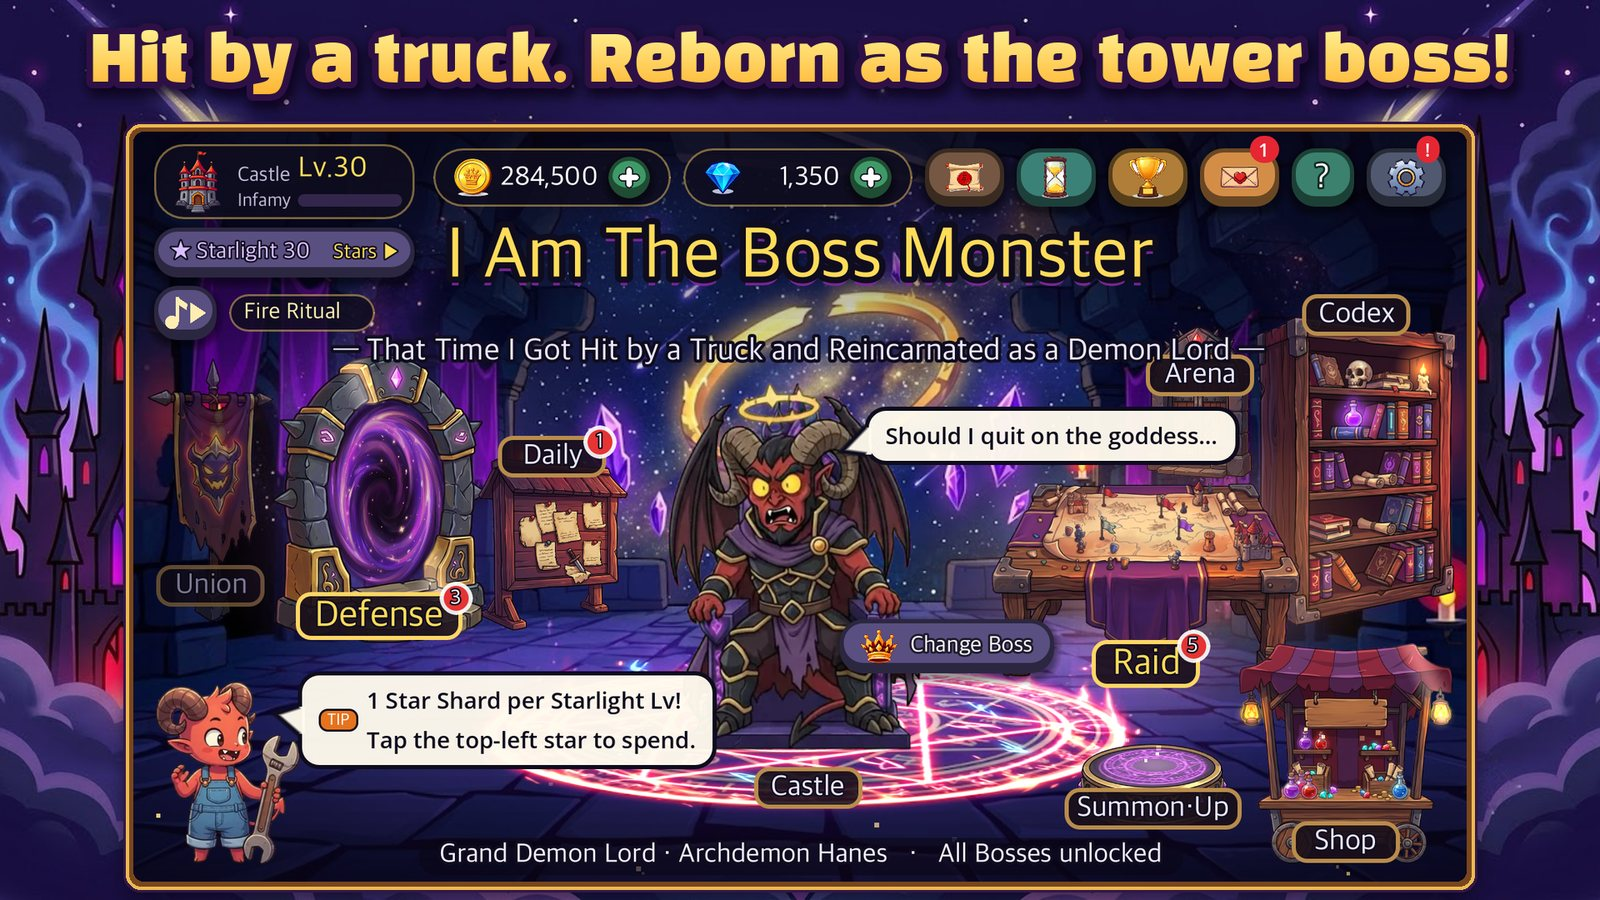
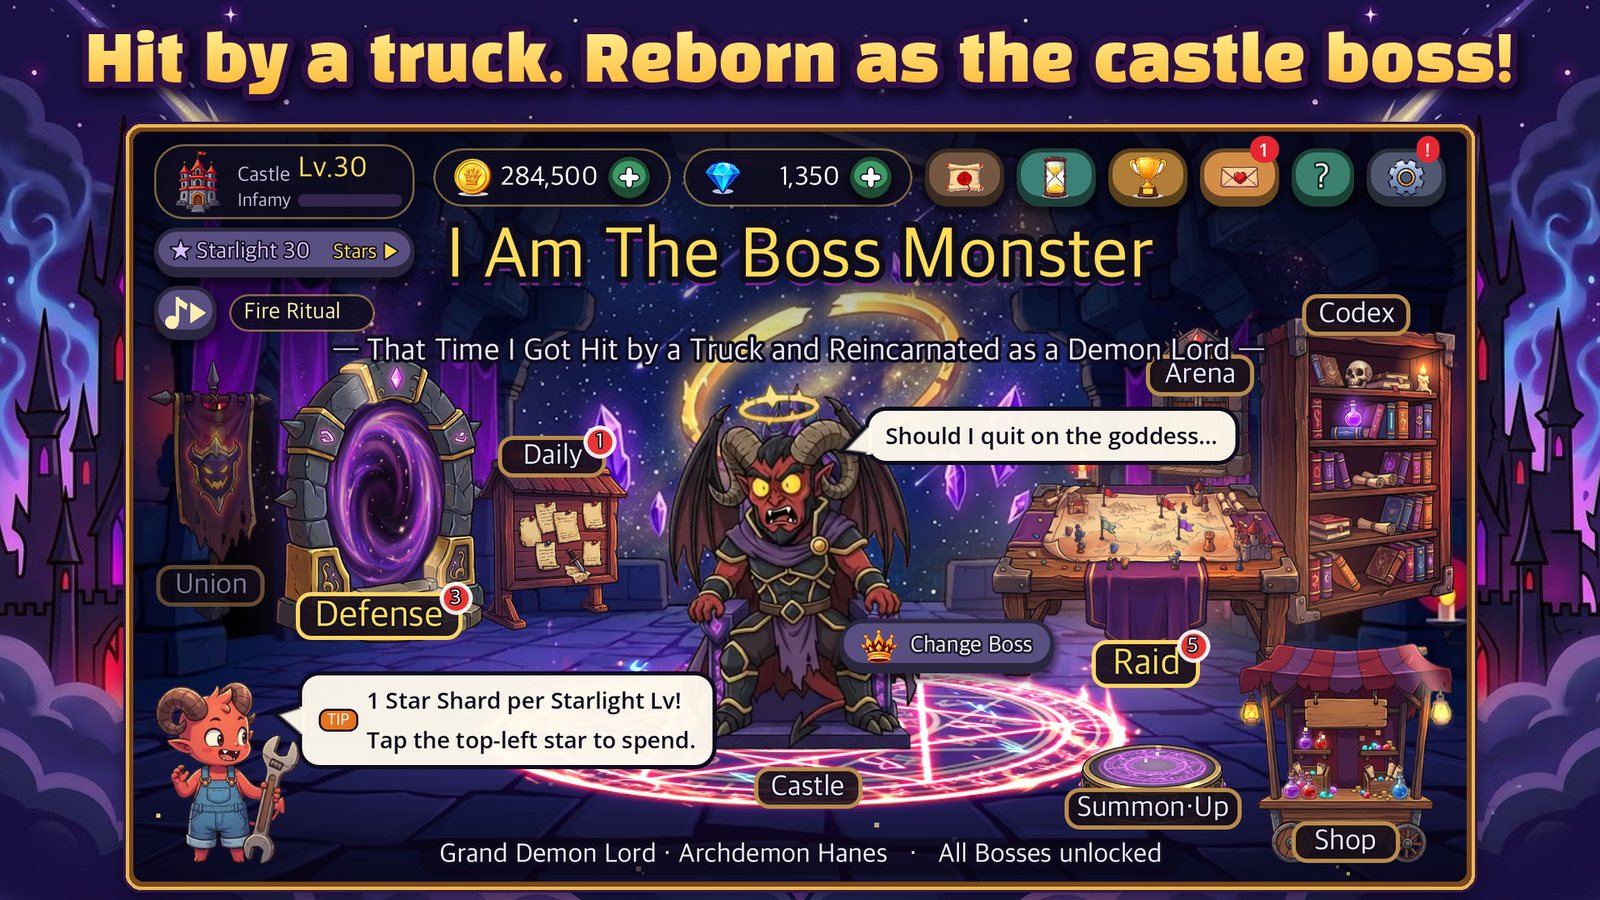
내가 보스 몬스터다: 구조물 이름을 게임과 같은 '마왕성(Demon Castle)'으로 맞춘다
게임 안 글은 '마왕성'(140곳)과 'castle'을 쓰는데 소개 페이지만 '마왕탑'·'Demon Tower'라 어긋났다.
소개글·주요 기능·첫 화면 카드·태그와 로비 스크린샷 띠 문구를 바꿨다. 방어탑(함정 옆 탑)은 그대로.

Changed region(s): [[0.0312, 0.0311, 0.9688, 0.1244]]

diff --git a/boss-monster/index.html b/boss-monster/index.html
@@ -4,7 +4,7 @@
   <meta charset="UTF-8">
   <meta name="viewport" content="width=device-width, initial-scale=1.0">
   <title>내가 보스 몬스터다 - 게임 소개 | PinkMandarin</title>
-  <meta name="description" content="내가 보스 몬스터다 — 부하와 함정을 배치하고 보스를 직접 조작해 쳐들어오는 용사를 막는 마왕탑 방어전">
+  <meta name="description" content="내가 보스 몬스터다 — 부하와 함정을 배치하고 보스를 직접 조작해 쳐들어오는 용사를 막는 마왕성 방어전">
   <link rel="icon" type="image/png" href="../assets/favicon.png">
   <link rel="stylesheet" href="../css/style.css">
 </head>
@@ -48,7 +48,7 @@
         <div class="app-detail-info">
           <h1 data-ko="내가 보스 몬스터다" data-en="I Am The Boss Monster">내가 보스 몬스터다</h1>
           <div class="app-developer">PinkMandarin</div>
-          <p class="app-tagline" data-ko="부하와 함정을 배치하고 보스를 직접 조작해 쳐들어오는 용사를 막는 마왕탑 방어전" data-en="Place minions and traps, take control of your boss, and crush invading heroes!">부하와 함정을 배치하고 보스를 직접 조작해 쳐들어오는 용사를 막는 마왕탑 방어전</p>
+          <p class="app-tagline" data-ko="부하와 함정을 배치하고 보스를 직접 조작해 쳐들어오는 용사를 막는 마왕성 방어전" data-en="Place minions and traps, take control of your boss, and crush invading heroes!">부하와 함정을 배치하고 보스를 직접 조작해 쳐들어오는 용사를 막는 마왕성 방어전</p>
           <div class="app-detail-badges">
             <span class="app-card-badge badge-dev" data-ko="내부 테스트 중" data-en="Internal Testing">내부 테스트 중</span>
             <span class="feature-tag">Android</span>
@@ -76,7 +76,7 @@
         </div>
         <div class="screenshots-scroll" data-lang="en" style="display:none">
           <div class="screenshot-item"><img src="../assets/boss-ss-01-en.jpg" alt="Lobby" loading="lazy"></div>
-          <div class="screenshot-item"><img src="../assets/boss-ss-02-en.jpg" alt="Tower layout" loading="lazy"></div>
+          <div class="screenshot-item"><img src="../assets/boss-ss-02-en.jpg" alt="Castle layout" loading="lazy"></div>
           <div class="screenshot-item"><img src="../assets/boss-ss-03-en.jpg" alt="Defense" loading="lazy"></div>
           <div class="screenshot-item"><img src="../assets/boss-ss-04-en.jpg" alt="Boss control" loading="lazy"></div>
           <div class="screenshot-item"><img src="../assets/boss-ss-05-en.jpg" alt="Codex & summon" loading="lazy"></div>
@@ -105,26 +105,26 @@
       <section class="app-description">
         <h2 data-ko="게임 소개" data-en="About This Game">게임 소개</h2>
         <div class="app-desc-content" data-lang="ko">
-          <p>트럭에 치여 눈을 떠 보니, 나는 마왕탑의 보스 슬라임이 되어 있었다. 여신 세레나의 실수로 용사 정원을 넘겨 버린 게이머에게 남은 자리는 마신군 마왕탑의 보스뿐. 쳐들어오는 용사들을 막고, 탑을 키우고, 진화를 거듭해 마신이 되어야 원래 세계로 돌아갈 수 있습니다.</p>
-          <h3>마왕탑을 설계하라</h3>
+          <p>트럭에 치여 눈을 떠 보니, 나는 마왕성의 보스 슬라임이 되어 있었다. 여신 세레나의 실수로 용사 정원을 넘겨 버린 게이머에게 남은 자리는 마신군 마왕성의 보스뿐. 쳐들어오는 용사들을 막고, 마왕성을 키우고, 진화를 거듭해 마신이 되어야 원래 세계로 돌아갈 수 있습니다.</p>
+          <h3>마왕성을 설계하라</h3>
           <p>층마다 부하 몬스터와 함정, 방어탑을 배치하세요. 벽으로 길을 막아 용사를 함정 쪽으로 몰고, 바닥 무늬로 층에 효과를 더합니다. 진형과 전환 규칙도 층마다 정할 수 있고, 어렵다면 [자동 배치]가 추천 배치를 만들어 줍니다.</p>
           <h3>보스를 직접 조작하라</h3>
           <p>견습 전사부터 성기사, 마녀, 심문관까지 45명의 용사가 한 층씩 올라옵니다. 꼭대기 마왕 접견실에서는 보스를 조이스틱으로 움직이며 기술과 필살기로 맞서세요. 체력이 줄면 페이즈가 바뀌고 새 능력이 깨어납니다.</p>
           <h3>보스 6종과 별자리</h3>
           <p>보스 슬라임에서 시작해 리치, 마룡, 뱀파이어 로드, 본 드래곤, 대악마 하네스로 진화합니다. 별빛 레벨이 오를 때마다 얻는 별조각으로 보스마다 다른 별자리를 밝혀 기술을 강화하세요.</p>
           <h3>몬스터 108종, 약탈, 연합전, 결투장</h3>
-          <p>마수군·사령군·마족군·거인군 네 군단의 몬스터를 소환하고 13부위 장비로 무장하세요. 다른 마왕의 탑을 약탈하고, 마왕군 연합에 들어가 연합전을 벌이고, 결투장에서는 레벨이 비슷한 마왕과 실시간 1:1로 겨룹니다.</p>
+          <p>마수군·사령군·마족군·거인군 네 군단의 몬스터를 소환하고 13부위 장비로 무장하세요. 다른 마왕의 마왕성을 약탈하고, 마왕군 연합에 들어가 연합전을 벌이고, 결투장에서는 레벨이 비슷한 마왕과 실시간 1:1로 겨룹니다.</p>
         </div>
         <div class="app-desc-content" data-lang="en" style="display:none">
-          <p>I got hit by a truck... and woke up as the boss slime of a Demon Tower. Goddess Serena made a mistake and the hero quota was already full, so the only seat left was on the Demon Lord side. Hold back the invading heroes, grow your tower and evolve into the Archfiend. That is the only way back to your own world.</p>
-          <h3>Design Your Demon Tower</h3>
+          <p>I got hit by a truck... and woke up as the boss slime of a Demon Castle. Goddess Serena made a mistake and the hero quota was already full, so the only seat left was on the Demon Lord side. Hold back the invading heroes, grow your castle and evolve into the Archfiend. That is the only way back to your own world.</p>
+          <h3>Design Your Demon Castle</h3>
           <p>Place minion monsters, traps and turrets on every floor. Block paths with walls to lure heroes into your traps and lay floor patterns for extra effects. Set formations and switch rules per floor, or tap [Auto] for a recommended layout.</p>
           <h3>Take Control of Your Boss</h3>
-          <p>45 heroes, from rookie warriors to paladins, witches and inquisitors, climb your tower floor by floor. In the Throne Room you move your boss with a joystick and fight back with skills and an ultimate. As your HP drops, new phases awaken new abilities.</p>
+          <p>45 heroes, from rookie warriors to paladins, witches and inquisitors, climb your castle floor by floor. In the Throne Room you move your boss with a joystick and fight back with skills and an ultimate. As your HP drops, new phases awaken new abilities.</p>
           <h3>6 Bosses and Constellations</h3>
           <p>Start as the Boss Slime and evolve into the Lich, Demon Dragon, Vampire Lord, Bone Dragon and Archdemon Hanes. Spend the Star Shards you earn as your Starlight rises to light up each boss's own constellation.</p>
           <h3>108 Monsters, Raids, Union Wars and the Arena</h3>
-          <p>Summon monsters from four legions (Beast, Necro, Demon and Giant) and equip them with gear for 13 slots. Raid other Demon Lords' towers, join a Demon Union for Union Wars, and duel Demon Lords of a similar level in real-time 1v1 Arena matches.</p>
+          <p>Summon monsters from four legions (Beast, Necro, Demon and Giant) and equip them with gear for 13 slots. Raid other Demon Lords' castles, join a Demon Union for Union Wars, and duel Demon Lords of a similar level in real-time 1v1 Arena matches.</p>
         </div>
       </section>
 
@@ -134,7 +134,7 @@
         <div class="features-grid">
           <div class="feature-card" data-lang="ko">
             <div class="feature-card-icon"><svg viewBox="0 0 24 24"><path d="M3 21h18M5 21V9l7-6 7 6v12M9 21v-6h6v6"/></svg></div>
-            <h3>마왕탑 설계</h3>
+            <h3>마왕성 설계</h3>
             <p>층마다 부하·함정·방어탑을 배치하고, 벽으로 길을 막고, 층마다 진형과 전환 규칙을 정하세요.</p>
           </div>
           <div class="feature-card" data-lang="ko">
@@ -155,7 +155,7 @@
           <div class="feature-card" data-lang="ko">
             <div class="feature-card-icon"><svg viewBox="0 0 24 24"><path d="M14.5 17.5L3 6V3h3l11.5 11.5M13 19l6-6M16 16l4 4M19 21l2-2"/></svg></div>
             <h3>약탈 · 연합전</h3>
-            <p>다른 마왕의 탑을 약탈하고, 마왕군 연합에 들어가 연합전으로 상대 마왕성을 공략하세요.</p>
+            <p>다른 마왕의 마왕성을 약탈하고, 마왕군 연합에 들어가 연합전으로 상대 마왕성을 공략하세요.</p>
           </div>
           <div class="feature-card" data-lang="ko">
             <div class="feature-card-icon"><svg viewBox="0 0 24 24"><path d="M12 3a9 9 0 1 0 0 18 9 9 0 0 0 0-18zM8 12h8M12 8v8"/></svg></div>
@@ -164,7 +164,7 @@
           </div>
           <div class="feature-card" data-lang="en" style="display:none">
             <div class="feature-card-icon"><svg viewBox="0 0 24 24"><path d="M3 21h18M5 21V9l7-6 7 6v12M9 21v-6h6v6"/></svg></div>
-            <h3>Design Your Tower</h3>
+            <h3>Design Your Castle</h3>
             <p>Place minions, traps and turrets on every floor, block paths with walls, and set formations and switch rules per floor.</p>
           </div>
           <div class="feature-card" data-lang="en" style="display:none">
@@ -185,7 +185,7 @@
           <div class="feature-card" data-lang="en" style="display:none">
             <div class="feature-card-icon"><svg viewBox="0 0 24 24"><path d="M14.5 17.5L3 6V3h3l11.5 11.5M13 19l6-6M16 16l4 4M19 21l2-2"/></svg></div>
             <h3>Raids · Union Wars</h3>
-            <p>Raid other Demon Lords' towers, join a Demon Union and assault rival castles in Union Wars.</p>
+            <p>Raid other Demon Lords' castles, join a Demon Union and assault rival castles in Union Wars.</p>
           </div>
           <div class="feature-card" data-lang="en" style="display:none">
             <div class="feature-card-icon"><svg viewBox="0 0 24 24"><path d="M12 3a9 9 0 1 0 0 18 9 9 0 0 0 0-18zM8 12h8M12 8v8"/></svg></div>

diff --git a/index.html b/index.html
@@ -276,13 +276,13 @@
           <div class="app-card-body">
             <span class="app-card-badge badge-dev" data-ko="내부 테스트 중" data-en="Internal Testing">내부 테스트 중</span>
             <h3 class="app-card-title"><a href="boss-monster/index.html" data-ko="내가 보스 몬스터다" data-en="I Am The Boss Monster">내가 보스 몬스터다</a></h3>
-            <p class="app-card-subtitle" data-ko="부하와 함정을 배치하고 보스를 직접 조작해 쳐들어오는 용사를 막는 마왕탑 방어전" data-en="Place minions and traps, take control of your boss, and crush invading heroes!">부하와 함정을 배치하고 보스를 직접 조작해 쳐들어오는 용사를 막는 마왕탑 방어전</p>
-            <p class="app-card-desc" data-ko="트럭에 치여 마왕탑의 보스 슬라임이 된 게이머. 층마다 부하와 함정을 배치하고, 보스를 직접 조작해 용사를 막고, 보스 6종으로 진화하세요. 몬스터 108종, 별자리, 약탈, 마왕군 연합전, 실시간 결투장까지."
-               data-en="A gamer hit by a truck wakes up as the boss slime of a Demon Tower. Place minions and traps, control your boss to stop the heroes, and evolve through 6 bosses. 108 monsters, constellations, raids, Demon Union wars and a real-time Arena.">
-              트럭에 치여 마왕탑의 보스 슬라임이 된 게이머. 층마다 부하와 함정을 배치하고, 보스를 직접 조작해 용사를 막고, 보스 6종으로 진화하세요. 몬스터 108종, 별자리, 약탈, 마왕군 연합전, 실시간 결투장까지.
+            <p class="app-card-subtitle" data-ko="부하와 함정을 배치하고 보스를 직접 조작해 쳐들어오는 용사를 막는 마왕성 방어전" data-en="Place minions and traps, take control of your boss, and crush invading heroes!">부하와 함정을 배치하고 보스를 직접 조작해 쳐들어오는 용사를 막는 마왕성 방어전</p>
+            <p class="app-card-desc" data-ko="트럭에 치여 마왕성의 보스 슬라임이 된 게이머. 층마다 부하와 함정을 배치하고, 보스를 직접 조작해 용사를 막고, 보스 6종으로 진화하세요. 몬스터 108종, 별자리, 약탈, 마왕군 연합전, 실시간 결투장까지."
+               data-en="A gamer hit by a truck wakes up as the boss slime of a Demon Castle. Place minions and traps, control your boss to stop the heroes, and evolve through 6 bosses. 108 monsters, constellations, raids, Demon Union wars and a real-time Arena.">
+              트럭에 치여 마왕성의 보스 슬라임이 된 게이머. 층마다 부하와 함정을 배치하고, 보스를 직접 조작해 용사를 막고, 보스 6종으로 진화하세요. 몬스터 108종, 별자리, 약탈, 마왕군 연합전, 실시간 결투장까지.
             </p>
             <div class="app-card-features">
-              <span class="feature-tag" data-ko="마왕탑 방어" data-en="Tower Defense">마왕탑 방어</span>
+              <span class="feature-tag" data-ko="마왕성 방어" data-en="Castle Defense">마왕성 방어</span>
               <span class="feature-tag" data-ko="보스 조작" data-en="Boss Control">보스 조작</span>
               <span class="feature-tag" data-ko="몬스터 108종" data-en="108 Monsters">몬스터 108종</span>
               <span class="feature-tag" data-ko="연합전" data-en="Union Wars">연합전</span>
